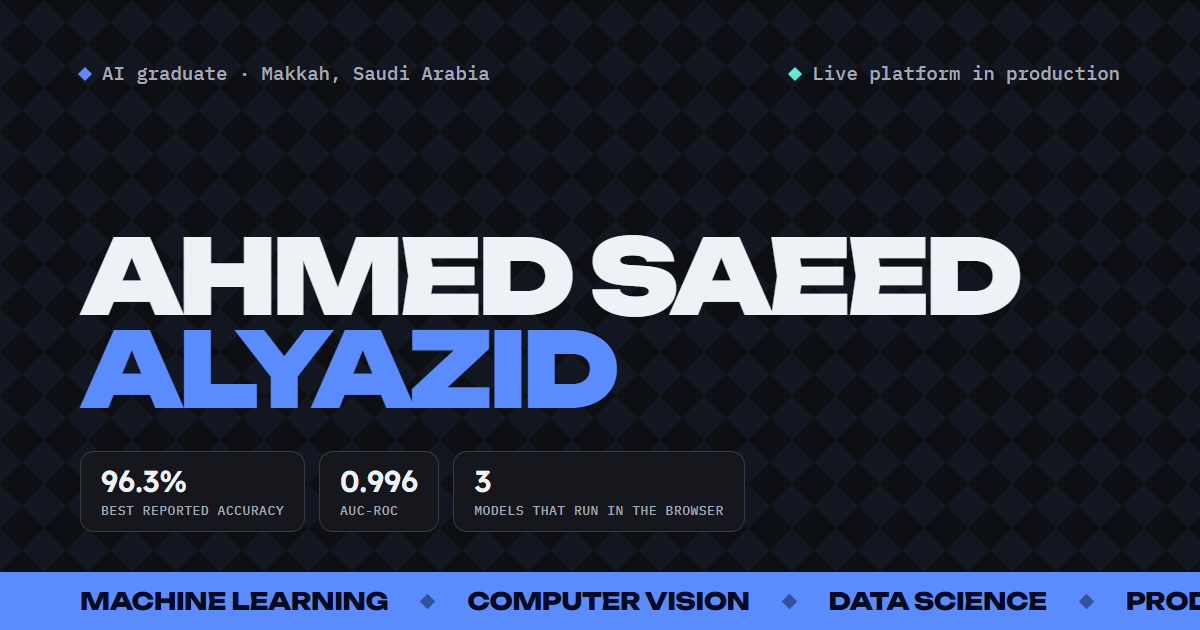
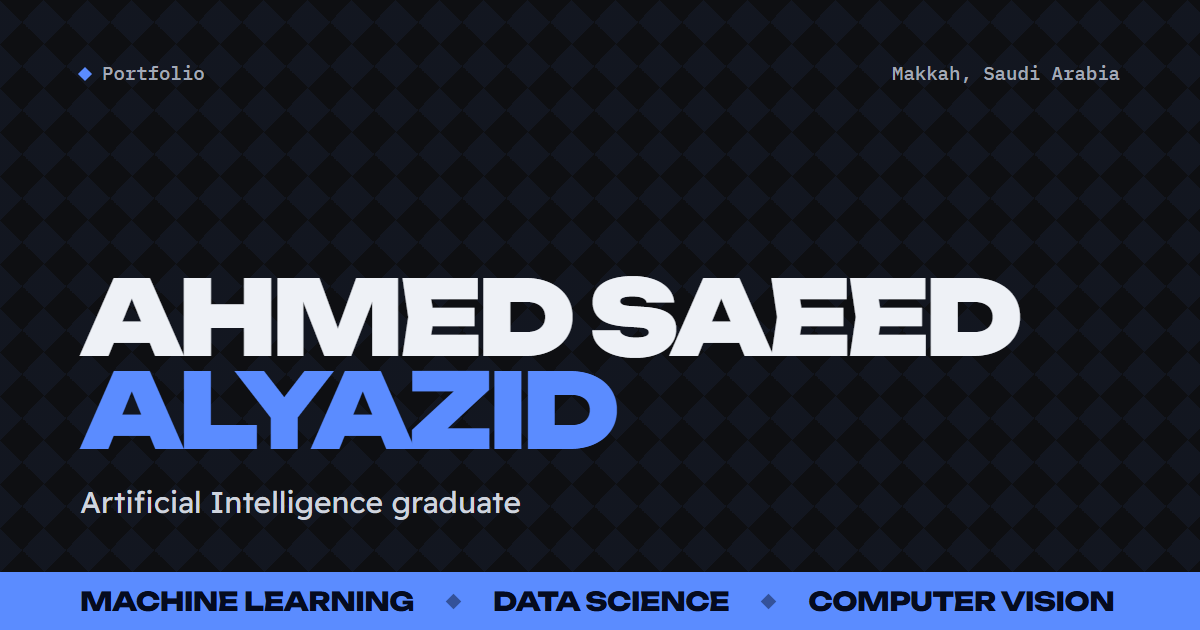
fix: independent diamond sliders and a cleaner share card
- Each diamond dimension now moves on its own; unusual or impossible
  shapes get an explanatory note instead of linked sliders.
- The social card and og/twitter descriptions describe who and what
  only, without project figures.

diff --git a/tools/og.html b/tools/og.html
@@ -5,9 +5,9 @@
   <title>Social card</title>
   <link rel="preconnect" href="https://fonts.googleapis.com" />
   <link rel="preconnect" href="https://fonts.gstatic.com" crossorigin />
-  <link rel="stylesheet" href="https://fonts.googleapis.com/css2?family=Readex+Pro:wght@400..600&family=Unbounded:wght@800..900&family=IBM+Plex+Mono:wght@500&display=block" />
+  <link rel="stylesheet" href="https://fonts.googleapis.com/css2?family=Readex+Pro:wght@300..600&family=Unbounded:wght@800..900&family=IBM+Plex+Mono:wght@500&display=block" />
   <style>
-    /* Same identity as the portfolio hero: Graphite & Cobalt, diamond pattern, the name as the mark. */
+    /* Social card: who and what only (no project figures). Same identity as the portfolio hero. */
     * { box-sizing: border-box; }
     html, body { margin: 0; width: 1200px; height: 630px; overflow: hidden; }
     body {
@@ -18,26 +18,18 @@
     .top { display: flex; justify-content: space-between; align-items: center; font: 500 19px/1 "IBM Plex Mono", monospace; color: #a3a9b6; }
     .top span { display: inline-flex; align-items: center; gap: 12px; }
     .dia { width: 10px; height: 10px; background: #5b8cff; transform: rotate(45deg); }
-    .live .dia { background: #5eead4; }
     h1 { margin: auto 0 0; font: 900 104px/.9 "Unbounded", sans-serif; letter-spacing: -.055em; text-transform: uppercase; }
     h1 span { display: block; }
     h1 .last { color: #5b8cff; }
-    .stats { display: flex; gap: 14px; margin: 34px 0 40px; }
-    .stats div { padding: 14px 20px; border-radius: 14px; border: 1.5px solid rgba(238, 241, 246, .16); background: #15171c; }
-    .stats strong { display: block; font: 600 30px/1 "Readex Pro", sans-serif; }
-    .stats small { display: block; margin-top: 8px; font: 500 13px/1 "IBM Plex Mono", monospace; letter-spacing: .04em; text-transform: uppercase; color: #a3a9b6; }
-    .band { display: flex; gap: 34px; align-items: center; margin: 0 -80px; padding: 0 80px; height: 58px; background: #5b8cff; color: #050b1f; font: 800 24px/1 "Unbounded", sans-serif; letter-spacing: -.02em; text-transform: uppercase; white-space: nowrap; }
+    .role { margin: 26px 0 52px; font: 400 30px/1.2 "Readex Pro", sans-serif; color: #cfd4de; }
+    .band { display: flex; gap: 34px; align-items: center; margin: 0 -80px; padding: 0 80px; height: 58px; background: #5b8cff; color: #050b1f; font: 800 26px/1 "Unbounded", sans-serif; letter-spacing: -.02em; text-transform: uppercase; white-space: nowrap; }
     .band i { width: 11px; height: 11px; flex: none; background: #050b1f; opacity: .45; transform: rotate(45deg); }
   </style>
 </head>
 <body>
-  <div class="top"><span><i class="dia"></i>AI graduate · Makkah, Saudi Arabia</span><span class="live"><i class="dia"></i>Live platform in production</span></div>
+  <div class="top"><span><i class="dia"></i>Portfolio</span><span>Makkah, Saudi Arabia</span></div>
   <h1><span>Ahmed Saeed</span><span class="last">AlYazid</span></h1>
-  <div class="stats">
-    <div><strong>96.3%</strong><small>Best reported accuracy</small></div>
-    <div><strong>0.996</strong><small>AUC-ROC</small></div>
-    <div><strong>3</strong><small>Models that run in the browser</small></div>
-  </div>
-  <div class="band"><span>Machine learning</span><i></i><span>Computer vision</span><i></i><span>Data science</span><i></i><span>Production AI</span></div>
+  <p class="role">Artificial Intelligence graduate</p>
+  <div class="band"><span>Machine learning</span><i></i><span>Data science</span><i></i><span>Computer vision</span></div>
 </body>
 </html>

diff --git a/app.js b/app.js
@@ -302,29 +302,20 @@
   let diamond = null, tree = null;
   fetch('assets/diamond-model.json').then((r) => r.json()).then((m) => { diamond = m; runDiamond(); }).catch(() => {});
   fetch('assets/obesity-model.json').then((r) => r.json()).then((m) => { tree = m; runObesity(); }).catch(() => {});
-  // Real diamonds keep width ≈ 1.008 × length and depth ≈ 0.615 × length; moving one
-  // dimension alone produces shapes the 500-row dataset never saw, so they move together by default.
-  const RATIO = { dx: 1, dy: 1.008, dz: 0.615 };
-  const dLink = $('#dLink');
-  dLink.addEventListener('click', () => dLink.setAttribute('aria-pressed', String(dLink.getAttribute('aria-pressed') !== 'true')));
-  ['dx', 'dy', 'dz'].forEach((id) => $('#' + id).addEventListener('input', () => {
-    if (dLink.getAttribute('aria-pressed') === 'true') {
-      const base = Number($('#' + id).value) / RATIO[id];
-      ['dx', 'dy', 'dz'].filter((k) => k !== id).forEach((k) => {
-        const el = $('#' + k);
-        el.value = Math.min(Number(el.max), Math.max(Number(el.min), base * RATIO[k])).toFixed(2);
-      });
-    }
-    runDiamond();
-  }));
+  ['dx', 'dy', 'dz'].forEach((id) => $('#' + id).addEventListener('input', runDiamond));
   function runDiamond() {
     const v = ['dx', 'dy', 'dz'].map((id) => Number($('#' + id).value));
     ['dx', 'dy', 'dz'].forEach((id, i) => { $('#' + id + 'v').textContent = v[i].toFixed(2); });
     if (!diamond) return;
     const est = diamond.intercept + v.reduce((s, x, i) => s + x * diamond.coefficients[i], 0);
     const [lo, hi] = diamond.observed_price_range;
-    $('#dPrice').textContent = est > 0 ? '$' + Math.round(est).toLocaleString('en-US') : 'Out of range';
-    $('#dNote').textContent = est >= lo && est <= hi ? 'Estimated price from the coursework regression' : 'Outside the prices seen in the project data ($326–$2,830)';
+    // Real diamonds keep width ≈ length and depth ≈ 61.5% of length; the 500-row data has no other shapes.
+    const [x, y, z] = v, odd = Math.abs(y / x - 1) > 0.06 || z / x < 0.55 || z / x > 0.68;
+    $('#dPrice').textContent = est > 0 ? '$' + Math.round(est).toLocaleString('en-US') : '—';
+    $('#dNote').textContent = est <= 0 ? 'No estimate: this shape is outside anything in the project data'
+      : odd ? 'Unusual proportions for a real diamond (width ≈ length, depth ≈ 61% of length), so treat this estimate loosely'
+      : est >= lo && est <= hi ? 'Estimated price from the coursework regression'
+      : 'Outside the prices seen in the project data ($326–$2,830)';
   }
   const flags = { fam: 1, scc: 0, walk: 0 };
   $$('.toggle[data-flag]').forEach((b) => b.addEventListener('click', () => { flags[b.dataset.flag] = flags[b.dataset.flag] ? 0 : 1; b.setAttribute('aria-pressed', String(!!flags[b.dataset.flag])); runObesity(); }));

diff --git a/index.html b/index.html
@@ -10,12 +10,12 @@
   <meta name="robots" content="index,follow" />
   <meta property="og:type" content="website" />
   <meta property="og:title" content="Ahmed Saeed AlYazid — AI & Machine Learning" />
-  <meta property="og:description" content="Artificial Intelligence, machine learning, data science and computer vision: team research and a live educational platform." />
+  <meta property="og:description" content="Portfolio of Ahmed Saeed AlYazid, Artificial Intelligence graduate in Makkah working in machine learning, data science and computer vision." />
   <meta property="og:image" content="https://ahmed-portfolio-2e0.pages.dev/assets/og-card.png" />
   <meta property="og:url" content="https://ahmed-portfolio-2e0.pages.dev/" />
   <meta name="twitter:card" content="summary_large_image" />
   <meta name="twitter:title" content="Ahmed Saeed AlYazid — AI & Machine Learning" />
-  <meta name="twitter:description" content="Artificial Intelligence, machine learning, data science and computer vision: team research and a live educational platform." />
+  <meta name="twitter:description" content="Portfolio of Ahmed Saeed AlYazid, Artificial Intelligence graduate in Makkah working in machine learning, data science and computer vision." />
   <meta name="twitter:image" content="https://ahmed-portfolio-2e0.pages.dev/assets/og-card.png" />
   <link rel="canonical" href="https://ahmed-portfolio-2e0.pages.dev/" />
   <link rel="icon" href="assets/favicon.svg" type="image/svg+xml" />
@@ -257,7 +257,6 @@
 
     <div class="block lab-io" data-block="3">
       <span class="lab-tag">Live lab · runs in your browser</span>
-      <button type="button" class="toggle toggle-wide" id="dLink" aria-pressed="true"><i class="dia" aria-hidden="true"></i><span>Keep realistic diamond proportions</span></button>
       <label class="range" for="dx"><span><span>Length (mm)</span><output id="dxv">3.95</output></span><input type="range" id="dx" min="3.79" max="6.9" step="0.01" value="3.95" /></label>
       <label class="range" for="dy"><span><span>Width (mm)</span><output id="dyv">3.98</output></span><input type="range" id="dy" min="3.75" max="6.9" step="0.01" value="3.98" /></label>
       <label class="range" for="dz"><span><span>Depth (mm)</span><output id="dzv">2.43</output></span><input type="range" id="dz" min="2.27" max="4.33" step="0.01" value="2.43" /></label>

diff --git a/style.css b/style.css
@@ -276,7 +276,6 @@ input[type=range]::-moz-range-thumb { width: 14px; height: 14px; border-radius: 
 .toggle .dia { background: transparent; border: var(--stroke) solid color-mix(in srgb, var(--ink-text) 45%, transparent); }
 .toggle[aria-pressed="true"] { background: var(--ink-text); color: var(--sand); border-color: var(--ink-text); }
 .toggle[aria-pressed="true"] .dia { background: var(--accent); border-color: var(--accent); }
-.toggle-wide { justify-content: flex-start; width: 100%; }
 .drop { position: relative; display: flex; flex-direction: column; align-items: center; gap: 6px; padding: 24px 16px; border-radius: var(--r-in); border: var(--stroke) dashed color-mix(in srgb, var(--ink-text) 35%, transparent); text-align: center; cursor: pointer; transition: border-color .2s, background .2s; }
 .drop:hover, .drop:focus-within { border-color: var(--ink-text); background: var(--sand-2); }
 .drop input { position: absolute; inset: 0; opacity: 0; cursor: pointer; }
